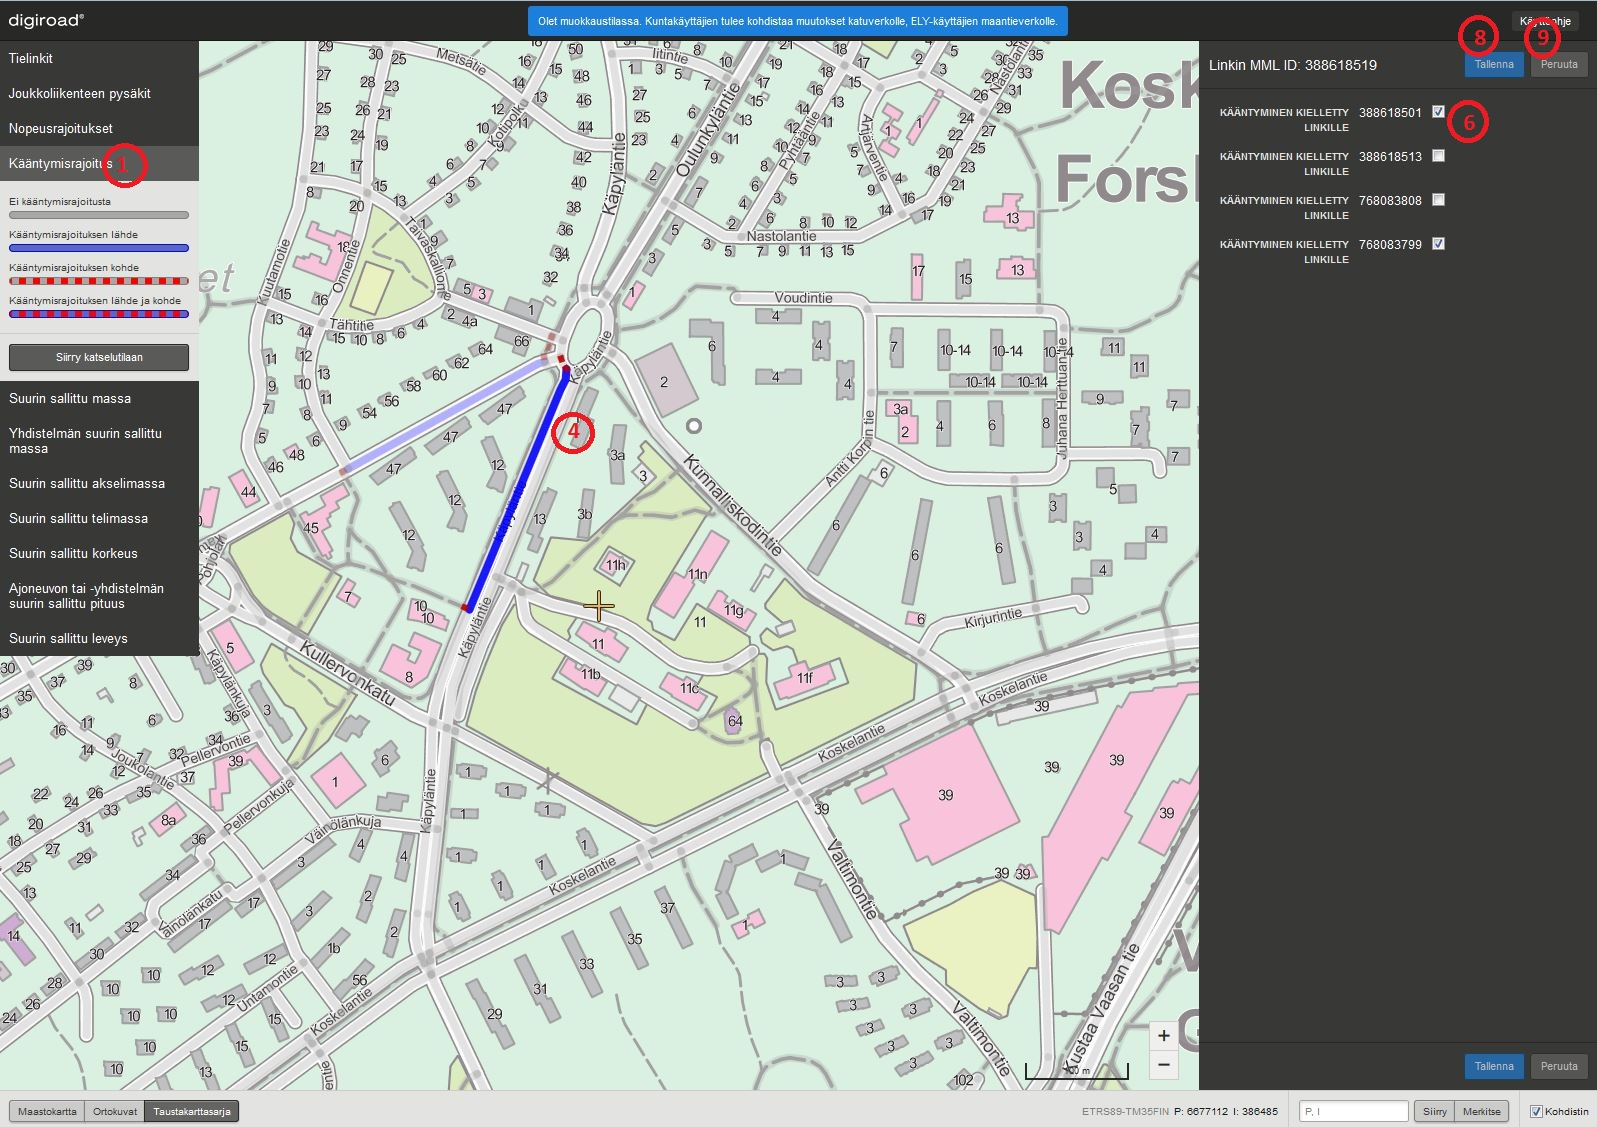
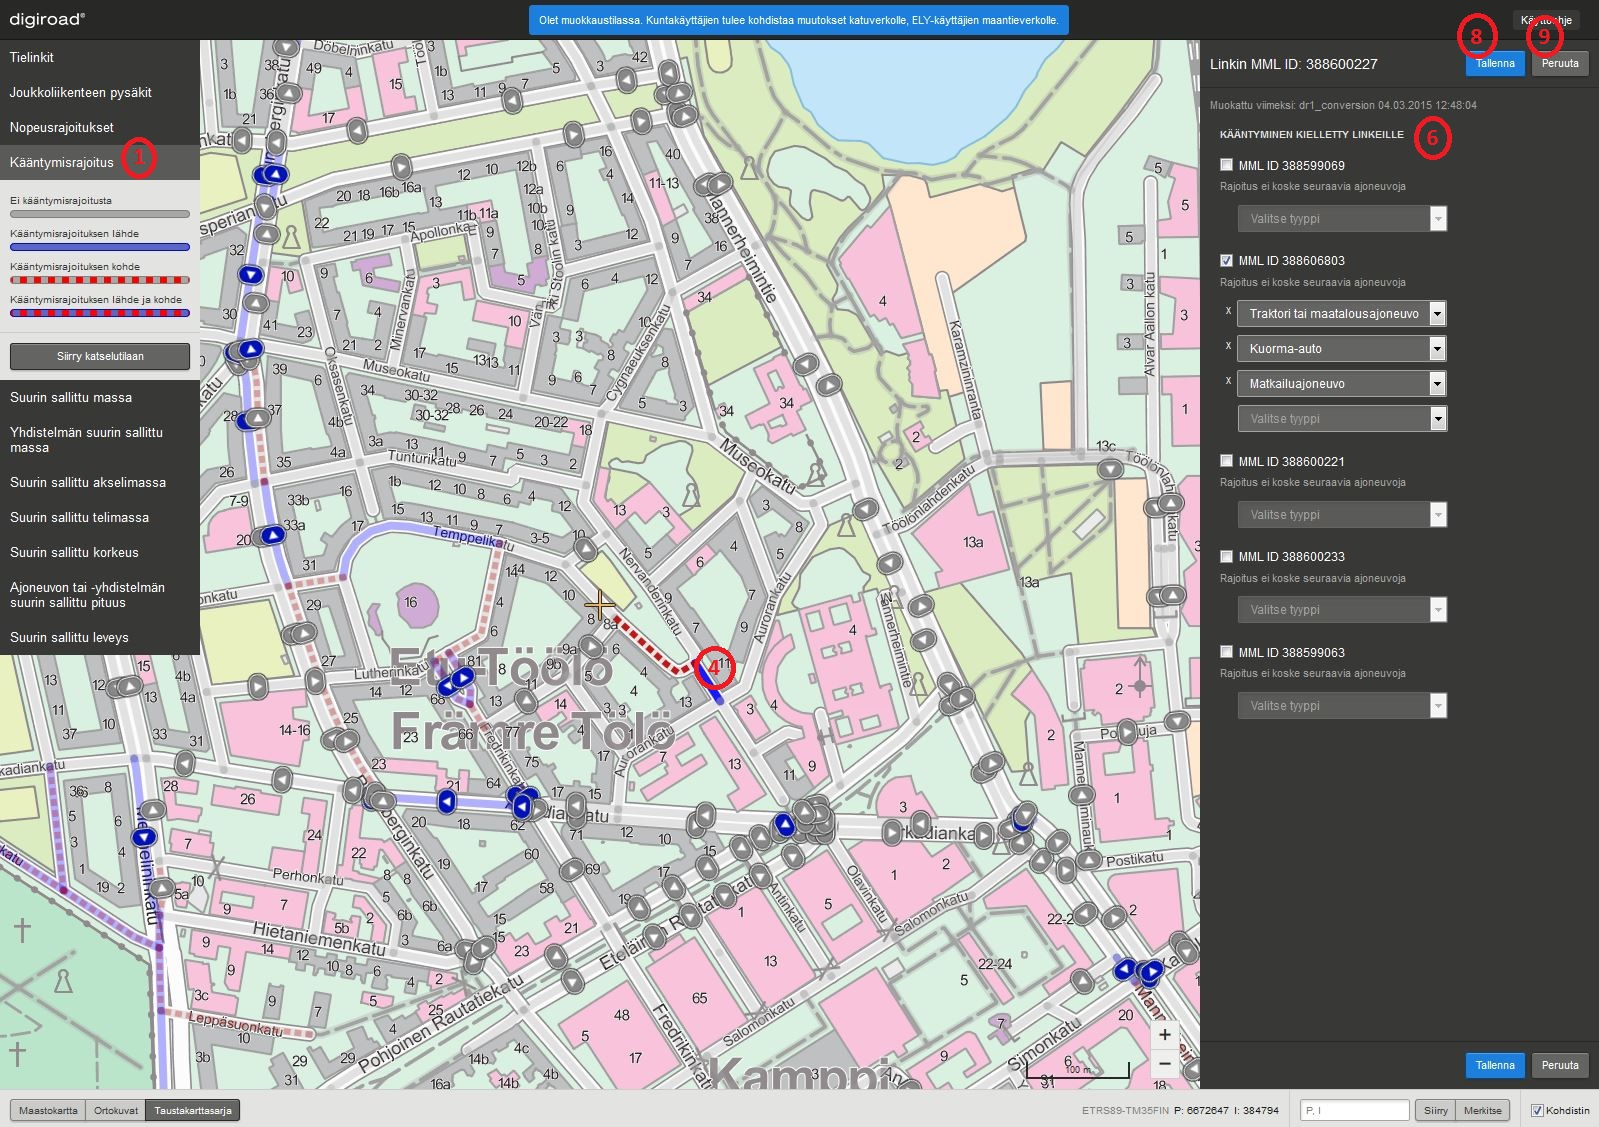
update manual

diff --git a/UI/manual/index.md b/UI/manual/index.md
@@ -216,7 +216,7 @@ _Nopeusrajoitusten valinta._
 2.5 K&auml;&auml;ntymisrajoitus
 --------------------------------
 
-Kartalle voi valita k&auml;&auml;ntymisrajoitukset valitsemalla tietolajit-paletista (1) K&auml;&auml;ntymisrajoitus. Karttaa tarkennettaessa k&auml;&auml;ntymisrajoitukset paksuuntuvat, jotta niiden erottaminen olisi helpompaa. K&auml;&auml;ntymisrajoitukset on visualisoitu siten, ett&auml; linkki, jolta ei saa k&auml;&auml;nty&auml;, on sininen, ja linkki, jolle ei saa k&auml;&auml;nty&auml; on visualisoitu punaisella katkoviivalla. Visualisoinnin selitteet n&auml;kyv&auml;t K&auml;&auml;ntymisrajoitus-valinnan alla tietolajit-paletissa.
+Kartalle voi valita k&auml;&auml;ntymisrajoitukset valitsemalla tietolajit-paletista (1) K&auml;&auml;ntymisrajoitus. Karttaa tarkennettaessa k&auml;&auml;ntymisrajoitukset paksuuntuvat, jotta niiden erottaminen olisi helpompaa. K&auml;&auml;ntymisrajoitukset on visualisoitu siten, ett&auml; linkki, jolta ei saa k&auml;&auml;nty&auml;, on sininen, ja linkki, jolle ei saa k&auml;&auml;nty&auml; on visualisoitu punaisella katkoviivalla. Visualisoinnin selitteet n&auml;kyv&auml;t K&auml;&auml;ntymisrajoitus-valinnan alla tietolajit-paletissa. Tielinkeill&auml;, joiden liikennevirran suunta on vain yhteen suuntaan, on visualisoitu suuntanuoli kuvaamaan liikennevirran suuntaa.
 
 ![K&auml;&auml;ntymisrajoitus](k43.JPG)
 
@@ -559,7 +559,7 @@ Nopeusrajoituksen katkaisemisen voi perua Peruuta-Painikkeesta, joka palauttaa a
 4.4.1 K&auml;&auml;ntymisrajoitusten muokkaus
 ---------------------------------------------
 
-K&auml;&auml;ntymisrajoituksia muokataan muokkaustilassa. Muokattava kohde valitaan klikkaamalla sen geometriaa (4). Tietoja muokataan ominaisuustieton&auml;kym&auml;ss&auml; (6). Muutokset tallennetaan painamalla Tallenna-painiketta (8). Ennen Tallenna-painikkeen painamista muutokset voi peruuttaa painamalla Peruuta-painiketta (9). Tallenna- ja Peruuta -painikkeet eiv&auml;t ole aktiivisina, jos muutoksia ei ole tehty. Jos muutoksia on tehty eik&auml; niit&auml; ole tallennettu tai peruutettu ja siirryt&auml;&auml;n pois painorajoituksen valinnasta, sovellus antaa muutos-dialogin. Muutos-dialogi kertoo k&auml;ytt&auml;j&auml;lle, ett&auml; muutoksia on tehty ja ne tulee tallentaa tai peruuttaa ennen kuin voi jatkaa.
+K&auml;&auml;ntymisrajoituksia muokataan muokkaustilassa. Muokattava kohde valitaan klikkaamalla sen geometriaa (4). Tietoja muokataan ominaisuustieton&auml;kym&auml;ss&auml; (6). Muokattavia tietoja ovat k&auml;&auml;ntymisrajoituksen kohdelinkit sek&auml; ajoneuvotyypit, joita k&auml;&auml;ntymisrajoitus ei koske. Muutokset tallennetaan painamalla Tallenna-painiketta (8). Ennen Tallenna-painikkeen painamista muutokset voi peruuttaa painamalla Peruuta-painiketta (9). Tallenna- ja Peruuta -painikkeet eiv&auml;t ole aktiivisina, jos muutoksia ei ole tehty. Jos muutoksia on tehty eik&auml; niit&auml; ole tallennettu tai peruutettu ja siirryt&auml;&auml;n pois painorajoituksen valinnasta, sovellus antaa muutos-dialogin. Muutos-dialogi kertoo k&auml;ytt&auml;j&auml;lle, ett&auml; muutoksia on tehty ja ne tulee tallentaa tai peruuttaa ennen kuin voi jatkaa.
 
 ![K&auml;&auml;ntymisrajoitusten muokkaus.](k45.JPG)
 
